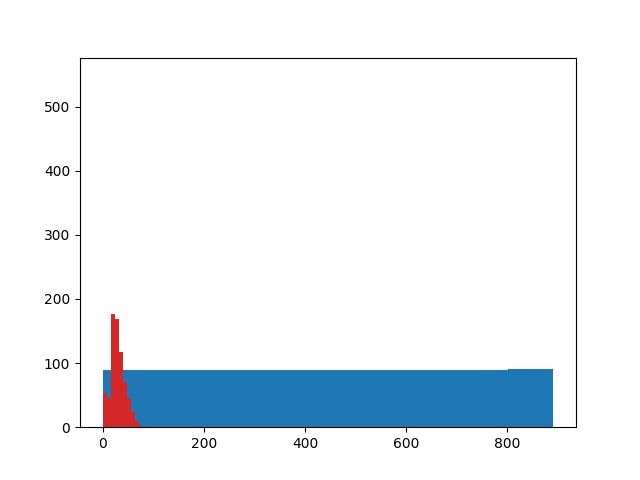
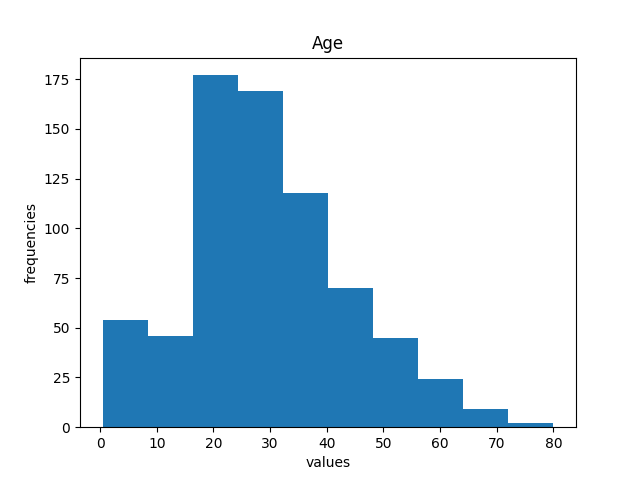
cerinta3 + output corectat, se suprapuneau histogramele

diff --git a/Surse/cerinta3.py b/Surse/cerinta3.py
@@ -5,5 +5,9 @@ df = pd.read_csv('../titanic/train.csv')
 
 for col in df.axes[1]:
     if df[col].dtypes == int or df[col].dtypes == float:
+        plt.figure()
+        plt.title(col)
+        plt.xlabel('values')
+        plt.ylabel('frequencies')
         plt.hist(df[col])
         plt.savefig(f'../output/cerinta3/hist_{col}')
